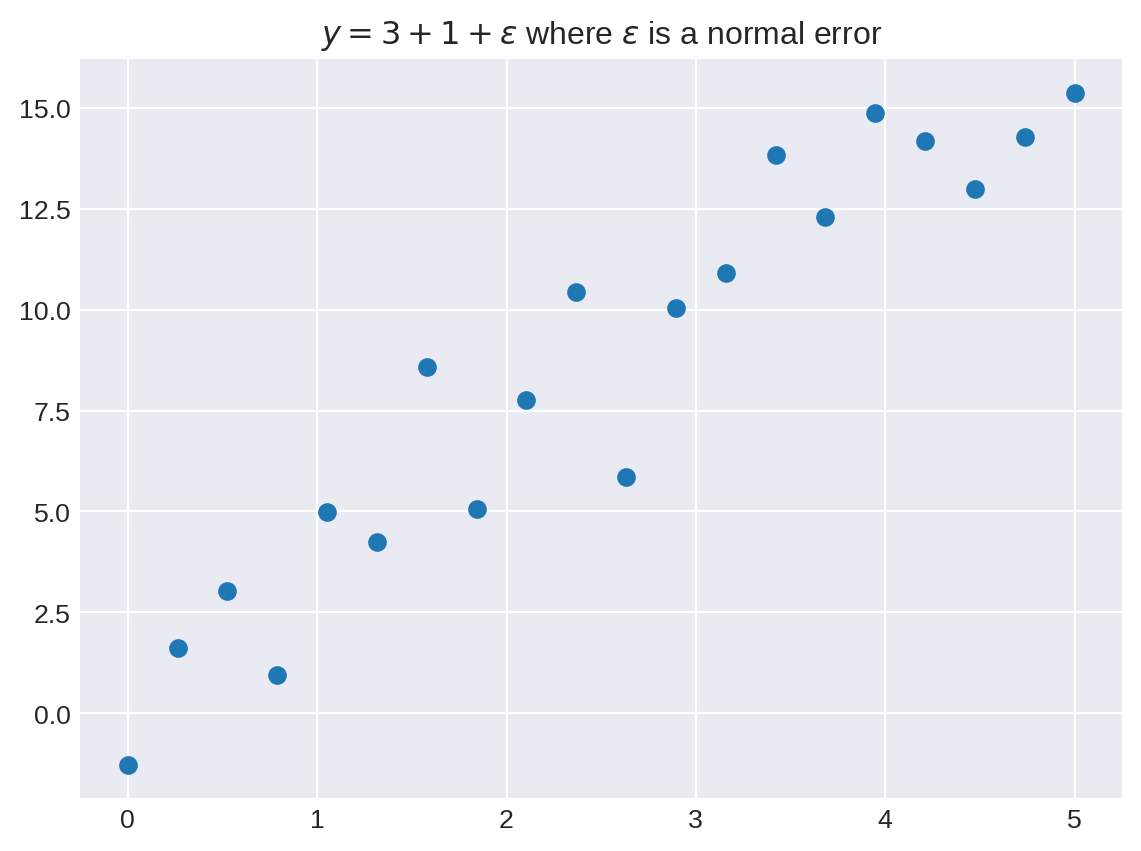
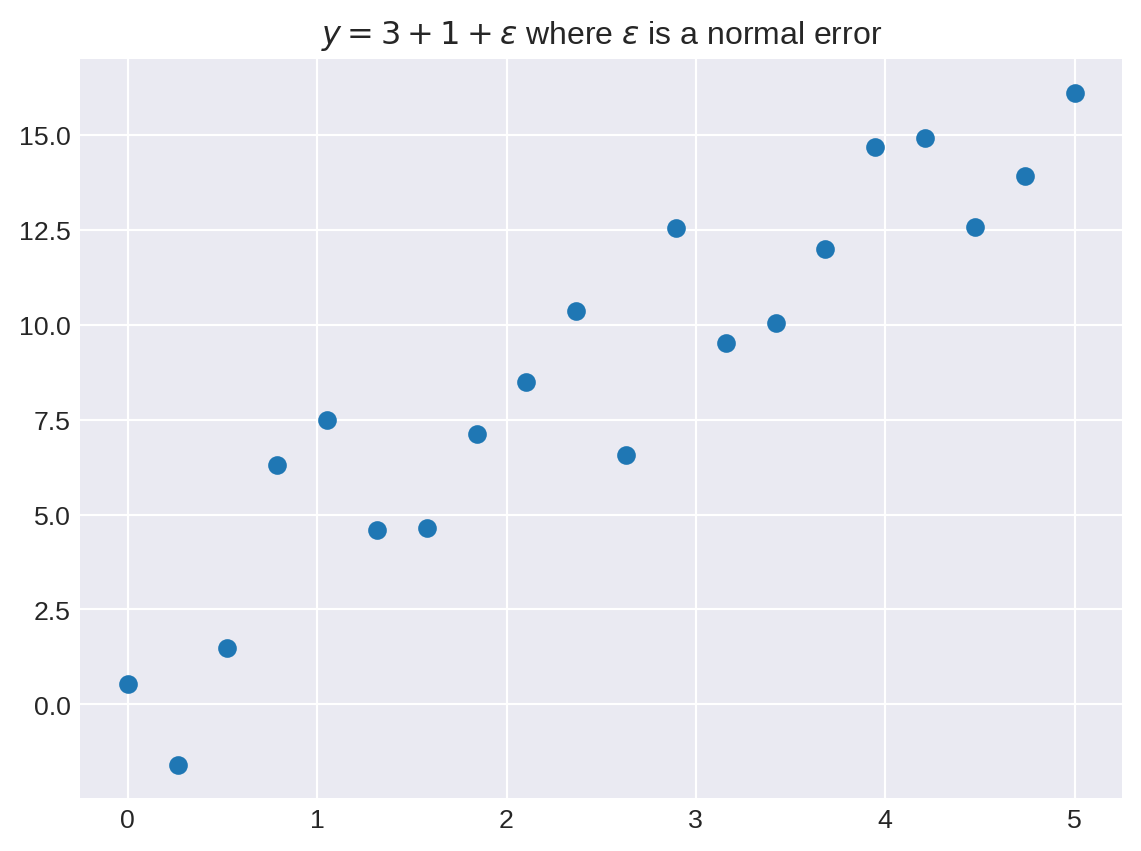
updating published version

diff --git a/docs/chapters/06-LinearAlgebra/linear_algebra_r.html b/docs/chapters/06-LinearAlgebra/linear_algebra_r.html
@@ -327,13 +327,13 @@ code span.wa { color: #60a0b0; font-weight: bold; font-style: italic; } /* Warni
 <span id="cb19-2"><a href="#cb19-2" aria-hidden="true" tabindex="-1"></a>y <span class="ot">&lt;-</span> <span class="fu">rnorm</span>(<span class="dv">4</span>)</span>
 <span id="cb19-3"><a href="#cb19-3" aria-hidden="true" tabindex="-1"></a><span class="fu">print</span>(x <span class="sc">+</span> y)</span></code><button title="Copy to Clipboard" class="code-copy-button"><i class="bi"></i></button></pre></div>
 <div class="cell-output cell-output-stdout">
-<pre><code>[1]  0.2010285 -1.1237127 -1.1015789 -2.3177915</code></pre>
+<pre><code>[1]  0.1097977 -0.3187203  0.2492887  0.4704711</code></pre>
 </div>
 <div class="sourceCode cell-code" id="cb21"><pre class="sourceCode r code-with-copy"><code class="sourceCode r"><span id="cb21-1"><a href="#cb21-1" aria-hidden="true" tabindex="-1"></a><span class="co"># note that in R this makes sense</span></span>
 <span id="cb21-2"><a href="#cb21-2" aria-hidden="true" tabindex="-1"></a>u <span class="ot">&lt;-</span> <span class="fu">rnorm</span>(<span class="dv">2</span>)</span>
 <span id="cb21-3"><a href="#cb21-3" aria-hidden="true" tabindex="-1"></a><span class="fu">print</span>(x <span class="sc">+</span> u)</span></code><button title="Copy to Clipboard" class="code-copy-button"><i class="bi"></i></button></pre></div>
 <div class="cell-output cell-output-stdout">
-<pre><code>[1] -0.1064962 -1.2286674 -1.3623923 -2.8045689</code></pre>
+<pre><code>[1] 0.49324581 0.07608001 0.06065620 0.26785773</code></pre>
 </div>
 </div>
 </section>
@@ -344,39 +344,39 @@ code span.wa { color: #60a0b0; font-weight: bold; font-style: italic; } /* Warni
 <span id="cb23-2"><a href="#cb23-2" aria-hidden="true" tabindex="-1"></a>v <span class="ot">=</span> <span class="fu">matrix</span>(<span class="fu">rnorm</span>(<span class="dv">20</span>), <span class="at">ncol =</span> <span class="dv">4</span>)</span>
 <span id="cb23-3"><a href="#cb23-3" aria-hidden="true" tabindex="-1"></a><span class="fu">print</span>(u <span class="sc">+</span> v)</span></code><button title="Copy to Clipboard" class="code-copy-button"><i class="bi"></i></button></pre></div>
 <div class="cell-output cell-output-stdout">
-<pre><code>            [,1]       [,2]        [,3]       [,4]
-[1,] -0.08781738  2.6819573 -2.63831707  3.3471222
-[2,] -1.13599136  0.3329791 -1.24716448  2.9239088
-[3,]  0.93240611 -2.3386088 -0.80372049  1.2132588
-[4,]  0.95365295  2.2073135  0.30373833 -0.2885490
-[5,]  1.54915123 -0.2143616  0.06027279  0.6395133</code></pre>
+<pre><code>           [,1]       [,2]       [,3]       [,4]
+[1,]  1.2233843  0.8360023 -0.8451698 -1.5919828
+[2,] -0.6969878  0.5464606 -0.4221811  1.5832769
+[3,] -1.9642269 -1.3572453  0.3877708 -0.6667116
+[4,]  0.6574274  1.0015350  1.7491304  1.9712444
+[5,] -0.5554792  0.6892050 -0.4880355  1.8133429</code></pre>
 </div>
 <div class="sourceCode cell-code" id="cb25"><pre class="sourceCode r code-with-copy"><code class="sourceCode r"><span id="cb25-1"><a href="#cb25-1" aria-hidden="true" tabindex="-1"></a><span class="fu">print</span>(u)</span></code><button title="Copy to Clipboard" class="code-copy-button"><i class="bi"></i></button></pre></div>
 <div class="cell-output cell-output-stdout">
-<pre><code>           [,1]       [,2]        [,3]       [,4]
-[1,] -0.9193640  2.4385226 -1.85901636 -0.4301372
-[2,] -0.8306836 -0.7379083 -2.07993606  0.1207315
-[3,]  0.5684176 -0.2243259 -0.99898721 -0.0421543
-[4,]  1.3154388  1.0222996  0.04858308 -0.5514530
-[5,]  0.4438915 -0.7708496 -0.06492562  0.1556753</code></pre>
+<pre><code>            [,1]       [,2]        [,3]        [,4]
+[1,]  0.06473288  0.7251847  0.03261982 -1.65862626
+[2,] -0.51818428  1.6756078 -0.56563478  0.73056712
+[3,] -0.98882826 -1.0487867  0.21558821 -0.43799265
+[4,]  1.43963261  2.0351037 -0.25613855  0.08483368
+[5,] -1.85047700  1.3635440  0.73334247  0.54148956</code></pre>
 </div>
 <div class="sourceCode cell-code" id="cb27"><pre class="sourceCode r code-with-copy"><code class="sourceCode r"><span id="cb27-1"><a href="#cb27-1" aria-hidden="true" tabindex="-1"></a><span class="fu">print</span>(<span class="dv">1</span> <span class="sc">/</span> u)</span></code><button title="Copy to Clipboard" class="code-copy-button"><i class="bi"></i></button></pre></div>
 <div class="cell-output cell-output-stdout">
-<pre><code>           [,1]       [,2]        [,3]       [,4]
-[1,] -1.0877085  0.4100844  -0.5379189  -2.324840
-[2,] -1.2038278 -1.3551819  -0.4807840   8.282844
-[3,]  1.7592699 -4.4578003  -1.0010138 -23.722373
-[4,]  0.7602026  0.9781868  20.5832958  -1.813391
-[5,]  2.2528028 -1.2972699 -15.4022404   6.423626</code></pre>
+<pre><code>           [,1]       [,2]      [,3]       [,4]
+[1,] 15.4481011  1.3789590 30.656211 -0.6029086
+[2,] -1.9298154  0.5967984 -1.767925  1.3687996
+[3,] -1.0112980 -0.9534827  4.638473 -2.2831433
+[4,]  0.6946217  0.4913755 -3.904137 11.7877709
+[5,] -0.5404012  0.7333830  1.363619  1.8467577</code></pre>
 </div>
 <div class="sourceCode cell-code" id="cb29"><pre class="sourceCode r code-with-copy"><code class="sourceCode r"><span id="cb29-1"><a href="#cb29-1" aria-hidden="true" tabindex="-1"></a><span class="fu">print</span>(<span class="fu">log</span>(<span class="fu">abs</span>(u)))</span></code><button title="Copy to Clipboard" class="code-copy-button"><i class="bi"></i></button></pre></div>
 <div class="cell-output cell-output-stdout">
-<pre><code>            [,1]        [,2]         [,3]       [,4]
-[1,] -0.08407321  0.89139236  0.620047508 -0.8436511
-[2,] -0.18550635 -0.30393566  0.732337154 -2.1141863
-[3,] -0.56489891 -1.49465543 -0.001013306 -3.1664186
-[4,]  0.27417027  0.02205464 -3.024479862 -0.5951987
-[5,] -0.81217515 -0.26026196 -2.734512977 -1.8599828</code></pre>
+<pre><code>            [,1]        [,2]       [,3]       [,4]
+[1,] -2.73748609 -0.32132883 -3.4228353  0.5059897
+[2,] -0.65742434  0.51617594 -0.5698067 -0.3139342
+[3,] -0.01123462  0.04763402 -1.5343851 -0.8255531
+[4,]  0.36438795  0.71054677 -1.3620368 -2.4670626
+[5,]  0.61544344  0.31008721 -0.3101425 -0.6134315</code></pre>
 </div>
 </div>
 </section>
@@ -386,19 +386,19 @@ code span.wa { color: #60a0b0; font-weight: bold; font-style: italic; } /* Warni
 <div class="sourceCode cell-code" id="cb31"><pre class="sourceCode r code-with-copy"><code class="sourceCode r"><span id="cb31-1"><a href="#cb31-1" aria-hidden="true" tabindex="-1"></a>u <span class="ot">=</span> <span class="fu">matrix</span>(<span class="fu">rnorm</span>(<span class="dv">20</span>), <span class="at">ncol =</span> <span class="dv">4</span>)</span>
 <span id="cb31-2"><a href="#cb31-2" aria-hidden="true" tabindex="-1"></a><span class="fu">print</span>(<span class="fu">colMeans</span>(u))</span></code><button title="Copy to Clipboard" class="code-copy-button"><i class="bi"></i></button></pre></div>
 <div class="cell-output cell-output-stdout">
-<pre><code>[1]  0.01038959  0.54599783 -0.07177792 -0.62958924</code></pre>
+<pre><code>[1] -0.74375562  0.08460588 -1.10887756  0.05388014</code></pre>
 </div>
 <div class="sourceCode cell-code" id="cb33"><pre class="sourceCode r code-with-copy"><code class="sourceCode r"><span id="cb33-1"><a href="#cb33-1" aria-hidden="true" tabindex="-1"></a><span class="fu">print</span>(<span class="fu">rowMeans</span>(u))</span></code><button title="Copy to Clipboard" class="code-copy-button"><i class="bi"></i></button></pre></div>
 <div class="cell-output cell-output-stdout">
-<pre><code>[1] -0.2020614 -0.1766882 -0.2107542  0.2627120  0.1455671</code></pre>
+<pre><code>[1] -0.2041389 -1.6555720  0.1803305 -0.3390162 -0.1242874</code></pre>
 </div>
 <div class="sourceCode cell-code" id="cb35"><pre class="sourceCode r code-with-copy"><code class="sourceCode r"><span id="cb35-1"><a href="#cb35-1" aria-hidden="true" tabindex="-1"></a><span class="fu">apply</span>(u, <span class="dv">1</span>, <span class="cf">function</span>(x) <span class="fu">mean</span>(x))</span></code><button title="Copy to Clipboard" class="code-copy-button"><i class="bi"></i></button></pre></div>
 <div class="cell-output cell-output-stdout">
-<pre><code>[1] -0.2020614 -0.1766882 -0.2107542  0.2627120  0.1455671</code></pre>
+<pre><code>[1] -0.2041389 -1.6555720  0.1803305 -0.3390162 -0.1242874</code></pre>
 </div>
 <div class="sourceCode cell-code" id="cb37"><pre class="sourceCode r code-with-copy"><code class="sourceCode r"><span id="cb37-1"><a href="#cb37-1" aria-hidden="true" tabindex="-1"></a><span class="fu">apply</span>(u, <span class="dv">2</span>, <span class="cf">function</span>(x) <span class="fu">var</span>(x))</span></code><button title="Copy to Clipboard" class="code-copy-button"><i class="bi"></i></button></pre></div>
 <div class="cell-output cell-output-stdout">
-<pre><code>[1] 0.6833941 0.5946856 0.9329311 1.1814161</code></pre>
+<pre><code>[1] 0.6015339 0.3245810 0.8039809 3.1738197</code></pre>
 </div>
 </div>
 </section>
@@ -409,12 +409,12 @@ code span.wa { color: #60a0b0; font-weight: bold; font-style: italic; } /* Warni
 <span id="cb39-2"><a href="#cb39-2" aria-hidden="true" tabindex="-1"></a>y <span class="ot">=</span> <span class="fu">matrix</span>(<span class="fu">rnorm</span>(<span class="dv">15</span>), <span class="at">ncol =</span> <span class="dv">3</span>)</span>
 <span id="cb39-3"><a href="#cb39-3" aria-hidden="true" tabindex="-1"></a><span class="fu">print</span>(y <span class="sc">%*%</span> x)</span></code><button title="Copy to Clipboard" class="code-copy-button"><i class="bi"></i></button></pre></div>
 <div class="cell-output cell-output-stdout">
-<pre><code>           [,1]       [,2]       [,3]         [,4]
-[1,] -0.3477276 -1.8582227 -0.1861860  0.006459785
-[2,]  1.7820706  3.4693502  0.7818338  2.757770342
-[3,]  0.1724814  4.1083356  0.5580947 -2.403942341
-[4,]  0.9029434  2.6311168  0.6082010  0.529665405
-[5,] -0.7671731  0.1474617 -0.9454621 -0.314958525</code></pre>
+<pre><code>           [,1]        [,2]       [,3]        [,4]
+[1,]  0.1757065 -0.09056635  0.5532879 -0.05879829
+[2,]  1.4117613 -1.42135737  0.7653868 -0.11235310
+[3,] -0.1406343 -0.08472564 -0.9459524  0.01145961
+[4,] -1.1208455  1.46739620  0.5518125  0.13944401
+[5,] -0.9671061  0.48363457 -1.6977477 -0.17381638</code></pre>
 </div>
 </div>
 </section>
@@ -424,11 +424,11 @@ code span.wa { color: #60a0b0; font-weight: bold; font-style: italic; } /* Warni
 <div class="sourceCode cell-code" id="cb41"><pre class="sourceCode r code-with-copy"><code class="sourceCode r"><span id="cb41-1"><a href="#cb41-1" aria-hidden="true" tabindex="-1"></a>x <span class="ot">=</span> <span class="fu">matrix</span>(<span class="fu">rnorm</span>(<span class="dv">12</span>), <span class="at">nrow =</span> <span class="dv">3</span>)</span>
 <span id="cb41-2"><a href="#cb41-2" aria-hidden="true" tabindex="-1"></a><span class="fu">print</span>(<span class="fu">t</span>(x))</span></code><button title="Copy to Clipboard" class="code-copy-button"><i class="bi"></i></button></pre></div>
 <div class="cell-output cell-output-stdout">
-<pre><code>           [,1]       [,2]       [,3]
-[1,] 1.48239270  1.8127275  0.9430318
-[2,] 0.85914357 -2.1078207  1.2858244
-[3,] 0.73499077  1.1240365 -0.2796883
-[4,] 0.06044379 -0.9321805  1.1626911</code></pre>
+<pre><code>           [,1]        [,2]      [,3]
+[1,] -0.5109372  0.03166436 0.8004030
+[2,]  1.7388845  0.42649371 0.1821297
+[3,] -1.6115660 -0.88755941 0.1033079
+[4,]  0.6337621  0.79586939 0.8743957</code></pre>
 </div>
 <div class="sourceCode cell-code" id="cb43"><pre class="sourceCode r code-with-copy"><code class="sourceCode r"><span id="cb43-1"><a href="#cb43-1" aria-hidden="true" tabindex="-1"></a><span class="fu">print</span>(<span class="fu">nrow</span>(<span class="fu">t</span>(x)))</span></code><button title="Copy to Clipboard" class="code-copy-button"><i class="bi"></i></button></pre></div>
 <div class="cell-output cell-output-stdout">

diff --git a/docs/chapters/06-LinearAlgebra/linear_algebra.html b/docs/chapters/06-LinearAlgebra/linear_algebra.html
@@ -429,7 +429,7 @@ code span.wa { color: #60a0b0; font-weight: bold; font-style: italic; } /* Warni
 </code></pre>
 </div>
 <div class="cell-output cell-output-display" data-execution_count="6">
-<pre><code>&lt;matplotlib.image.AxesImage at 0x7f6b36106ca0&gt;</code></pre>
+<pre><code>&lt;matplotlib.image.AxesImage at 0x7fcca8d50a90&gt;</code></pre>
 </div>
 <div class="cell-output cell-output-display">
 <p><img src="linear_algebra_files/figure-html/cell-7-output-3.png" width="415" height="411"></p>
@@ -521,8 +521,8 @@ b_1v_1+...+b_kv_k=0
 <span id="cb10-4"><a href="#cb10-4" aria-hidden="true" tabindex="-1"></a>result <span class="op">=</span> <span class="bu">sum</span>(prods)  <span class="co"># sum of products</span></span>
 <span id="cb10-5"><a href="#cb10-5" aria-hidden="true" tabindex="-1"></a><span class="bu">print</span>(result)</span></code><button title="Copy to Clipboard" class="code-copy-button"><i class="bi"></i></button></pre></div>
 <div class="cell-output cell-output-stdout">
-<pre><code>[ 0.20787137 -1.70796585 -0.92356413 -0.39774789  0.31960287 -1.77183004
-  0.19309562  0.14900575]</code></pre>
+<pre><code>[ 0.6067855  -0.02640659  0.69508751  0.057124   -0.12465595  0.13438763
+  0.56018389 -0.58798198]</code></pre>
 </div>
 </div>
 </section>
@@ -880,7 +880,7 @@ Compare -M[:,0]+M[:,2] with M@v
 <div class="cell" data-execution_count="14">
 <div class="sourceCode cell-code" id="cb25"><pre class="sourceCode python code-with-copy"><code class="sourceCode python"><span id="cb25-1"><a href="#cb25-1" aria-hidden="true" tabindex="-1"></a>plt.scatter(x<span class="op">=</span>data0[:, <span class="dv">2</span>], y<span class="op">=</span>data0[:, <span class="dv">3</span>])</span></code><button title="Copy to Clipboard" class="code-copy-button"><i class="bi"></i></button></pre></div>
 <div class="cell-output cell-output-display" data-execution_count="14">
-<pre><code>&lt;matplotlib.collections.PathCollection at 0x7f6b1f50fb20&gt;</code></pre>
+<pre><code>&lt;matplotlib.collections.PathCollection at 0x7fcca02e8d90&gt;</code></pre>
 </div>
 <div class="cell-output cell-output-display">
 <p><img src="linear_algebra_files/figure-html/cell-15-output-2.png" width="590" height="411"></p>

diff --git a/docs/chapters/06-LinearAlgebra/linear_algebra_python.html b/docs/chapters/06-LinearAlgebra/linear_algebra_python.html
@@ -296,7 +296,7 @@ Reshaped array to column vector:
 <span id="cb6-7"><a href="#cb6-7" aria-hidden="true" tabindex="-1"></a><span class="cf">except</span>:</span>
 <span id="cb6-8"><a href="#cb6-8" aria-hidden="true" tabindex="-1"></a>    <span class="bu">print</span>(<span class="st">"Cant Mix These"</span>)</span></code><button title="Copy to Clipboard" class="code-copy-button"><i class="bi"></i></button></pre></div>
 <div class="cell-output cell-output-stdout">
-<pre><code>[-1.52231502  0.76850828  1.28519479  0.42665221]
+<pre><code>[ 0.89941344  1.29114171 -3.57249112  2.57015001]
 Cant Mix These</code></pre>
 </div>
 </div>
@@ -353,16 +353,16 @@ x-z=[[-2 -1]
 <span id="cb12-4"><a href="#cb12-4" aria-hidden="true" tabindex="-1"></a><span class="bu">print</span>(y)</span>
 <span id="cb12-5"><a href="#cb12-5" aria-hidden="true" tabindex="-1"></a><span class="bu">print</span>(x <span class="op">@</span> y)</span></code><button title="Copy to Clipboard" class="code-copy-button"><i class="bi"></i></button></pre></div>
 <div class="cell-output cell-output-stdout">
-<pre><code>[[-0.59248299  1.03291625  0.8865049  -0.75661269]
- [-1.3808384  -0.74085953 -1.76893118 -0.77746364]
- [ 0.57655411  0.62412979  0.78913937  0.17423084]]
-[[-0.00762942]
- [-0.54056644]
- [-1.14141436]
- [ 1.23205466]]
-[[-2.49789718]
- [ 1.47222456]
- [-1.02785549]]</code></pre>
+<pre><code>[[ 1.01667269  0.28910178  0.12214071 -1.00415392]
+ [-0.69706528  0.62075271 -1.25004312 -0.84593326]
+ [-0.90239255  0.19308687  2.43732235 -0.8611405 ]]
+[[-0.36888505]
+ [-0.16700065]
+ [ 0.62425372]
+ [ 1.01872696]]
+[[-1.37002741]
+ [-1.48864824]
+ [ 0.944874  ]]</code></pre>
 </div>
 </div>
 </section>

diff --git a/docs/chapters/02-JupyterBasics/jupyter-walkthrough.html b/docs/chapters/02-JupyterBasics/jupyter-walkthrough.html
@@ -506,7 +506,7 @@ Molly
 <div class="cell" data-execution_count="31">
 <div class="sourceCode cell-code" id="cb57"><pre class="sourceCode python code-with-copy"><code class="sourceCode python"><span id="cb57-1"><a href="#cb57-1" aria-hidden="true" tabindex="-1"></a><span class="bu">print</span>(np.random.randint(<span class="dv">0</span>, <span class="dv">10</span>))</span></code><button title="Copy to Clipboard" class="code-copy-button"><i class="bi"></i></button></pre></div>
 <div class="cell-output cell-output-stdout">
-<pre><code>4</code></pre>
+<pre><code>1</code></pre>
 </div>
 </div>
 <div class="cell" data-execution_count="32">
@@ -521,7 +521,7 @@ Molly
 <div class="cell" data-execution_count="34">
 <div class="sourceCode cell-code" id="cb62"><pre class="sourceCode python code-with-copy"><code class="sourceCode python"><span id="cb62-1"><a href="#cb62-1" aria-hidden="true" tabindex="-1"></a>randint(<span class="dv">1</span>, <span class="dv">10</span>)</span></code><button title="Copy to Clipboard" class="code-copy-button"><i class="bi"></i></button></pre></div>
 <div class="cell-output cell-output-display" data-execution_count="34">
-<pre><code>6</code></pre>
+<pre><code>2</code></pre>
 </div>
 </div>
 </section>

diff --git a/docs/chapters/05-WorkingWithData/pandas_penguins.html b/docs/chapters/05-WorkingWithData/pandas_penguins.html
@@ -1357,7 +1357,7 @@ Categories (2, object): ['FEMALE', 'MALE']</code></pre>
 <div class="sourceCode cell-code" id="cb45"><pre class="sourceCode python code-with-copy"><code class="sourceCode python"><span id="cb45-1"><a href="#cb45-1" aria-hidden="true" tabindex="-1"></a>penguins_by_species <span class="op">=</span> penguins.groupby(<span class="st">'Species'</span>)</span>
 <span id="cb45-2"><a href="#cb45-2" aria-hidden="true" tabindex="-1"></a>penguins_by_species</span></code><button title="Copy to Clipboard" class="code-copy-button"><i class="bi"></i></button></pre></div>
 <div class="cell-output cell-output-display" data-execution_count="28">
-<pre><code>&lt;pandas.core.groupby.generic.DataFrameGroupBy object at 0x7f2ff8305d90&gt;</code></pre>
+<pre><code>&lt;pandas.core.groupby.generic.DataFrameGroupBy object at 0x7fa2be26ea30&gt;</code></pre>
 </div>
 </div>
 </section>

diff --git a/docs/chapters/04-StatBasics/stat-basics.html b/docs/chapters/04-StatBasics/stat-basics.html
@@ -790,7 +790,7 @@ p(1)+(1-p)(0)=p.
 <div class="sourceCode cell-code" id="cb22"><pre class="sourceCode r code-with-copy"><code class="sourceCode r"><span id="cb22-1"><a href="#cb22-1" aria-hidden="true" tabindex="-1"></a>simulated <span class="ot">&lt;-</span> <span class="fu">rbinom</span>(<span class="dv">10000</span>, <span class="dv">4600</span>, .<span class="dv">224</span>)</span>
 <span id="cb22-2"><a href="#cb22-2" aria-hidden="true" tabindex="-1"></a><span class="fu">sum</span>(simulated <span class="sc">&gt;=</span> <span class="dv">1133</span>)</span></code><button title="Copy to Clipboard" class="code-copy-button"><i class="bi"></i></button></pre></div>
 <div class="cell-output cell-output-stdout">
-<pre><code>[1] 3</code></pre>
+<pre><code>[1] 1</code></pre>
 </div>
 </div>
 <!--
